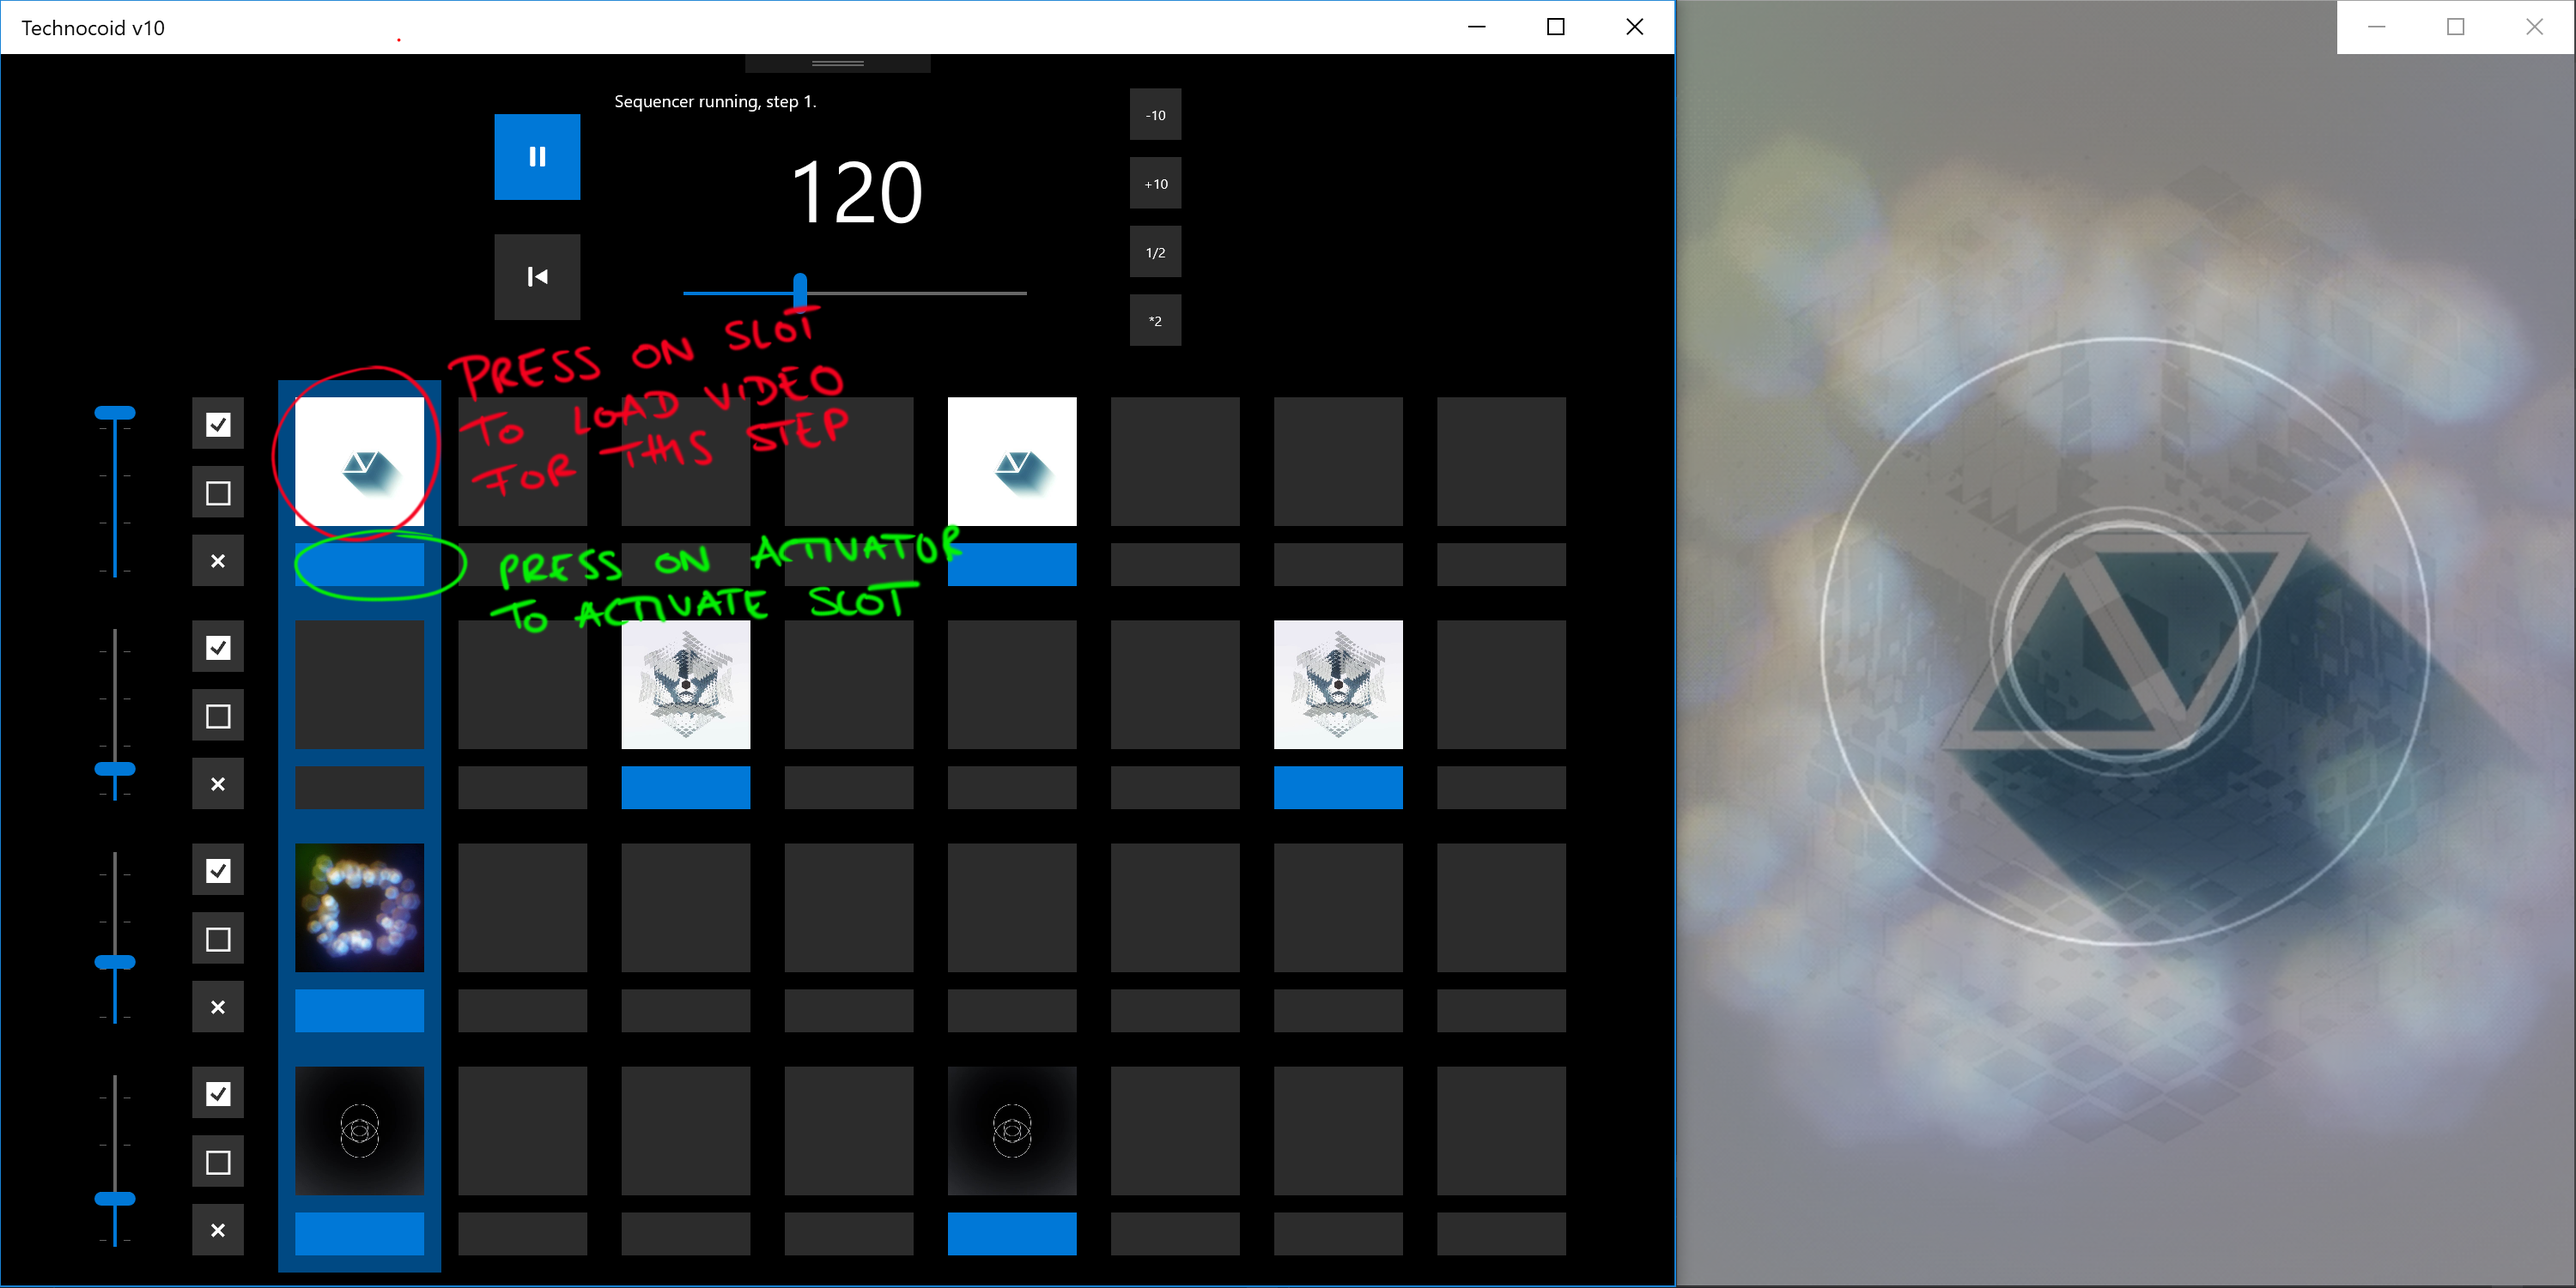
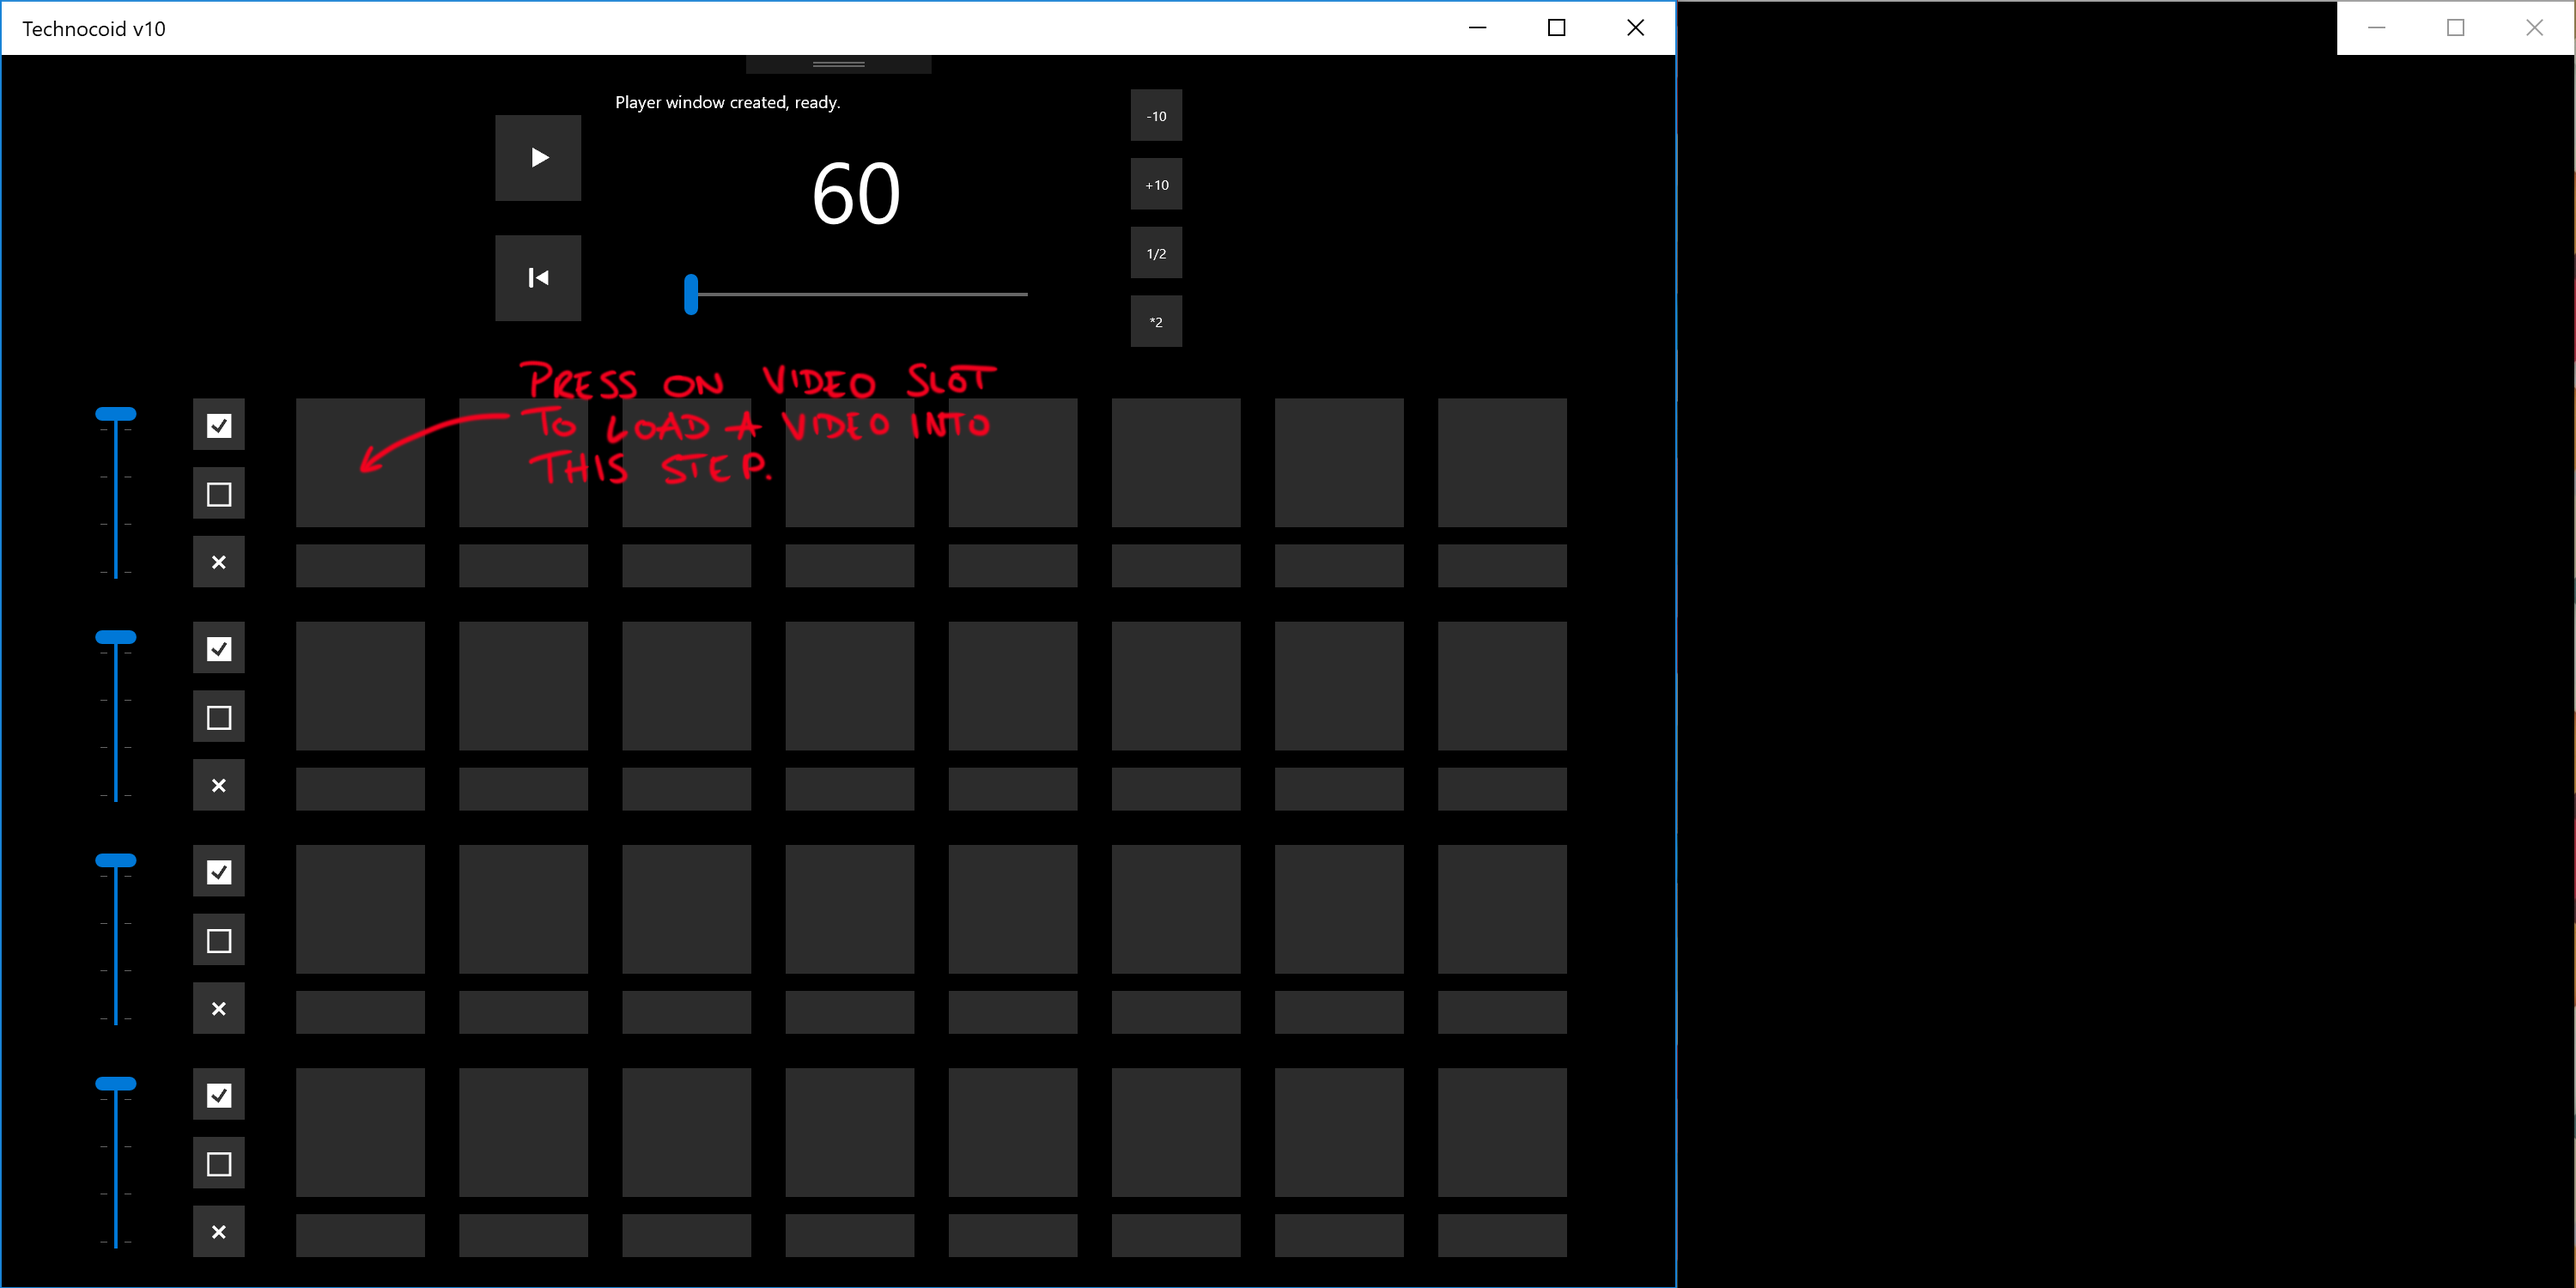
Video players now stop if the sequencer is stopped.

diff --git a/uwp-technocoid-v10/SequencerControllerUI.xaml b/uwp-technocoid-v10/SequencerControllerUI.xaml
@@ -10,7 +10,7 @@
     d:DesignWidth="480">
 
     <Grid>
-        <StackPanel Orientation="Vertical" HorizontalAlignment="Center" Padding="10, 10, 10, 10">
+        <StackPanel Orientation="Vertical" HorizontalAlignment="Center" Padding="20, 10, 20, 10">
             <StackPanel Orientation="Horizontal">
                 <StackPanel Orientation="Vertical" VerticalAlignment="Center">
                     <Button  x:Name="startSequencerButton" Width="50" Height="50" Margin="0,0,10,0" Background="#2c2c2c" Click="StartSequencer" Content="&#xE102;" FontFamily="Segoe UI Symbol"/>

diff --git a/uwp-technocoid-v10/FullScreenViewer.xaml.cs b/uwp-technocoid-v10/FullScreenViewer.xaml.cs
@@ -112,8 +112,16 @@ namespace uwp_technocoid_v10
             await this.globalEventHandlerInstance.playerDispatcher.RunAsync(
              CoreDispatcherPriority.Normal, () =>
              {
-                 // Originally we started / stopped the players here,
-                 // however this is done via the sequencer triggers now.
+                 if (!(bool)isCurrentlyPlaying)
+                 {
+                     // Iterate through all video players.
+                     for (int i = 0; i < 4; i++)
+                     {
+                         // Get the media player element for the current track and stop it.
+                         MediaPlayerElement currentMediaElement = (MediaPlayerElement)this.FindName("mediaPlayerElementTrack" + i.ToString());
+                         currentMediaElement.MediaPlayer.Pause();
+                     }
+                 }
              });
         }
 

diff --git a/README.md b/README.md
@@ -21,7 +21,7 @@ Build and run with Visual Studio 2017. VS 2015 might work, too, but I didn't tes
 - Adjust the opacity for the respective track.
 - Hit the play button to start the sequencer.
 - Activated slots with videos will be played in the player window.
-- The Reset button (next to play) will reset the step counter to 0.
+- The Reset button (below the play button) will reset the step counter to 0.
 - Tap the space bar on each beat to set the BPM.
 - Press left / right to de- / increase the BPM count by 10.
 - Press down / up to halve / double the BPM count.
@@ -31,6 +31,8 @@ Build and run with Visual Studio 2017. VS 2015 might work, too, but I didn't tes
 ![alt text](https://github.com/DirkSonguer/uwp-technocoid-v10/blob/master/screenshots/tcdv10_intro2.png "Technocoid Intro 2")
 
 ![alt text](https://github.com/DirkSonguer/uwp-technocoid-v10/blob/master/screenshots/tcdv10_intro3.png "Technocoid Intro 3")
+
+![alt text](https://github.com/DirkSonguer/uwp-technocoid-v10/blob/master/screenshots/tcdv10_intro4.png "Technocoid Intro 4")
 
 
 # To Do
